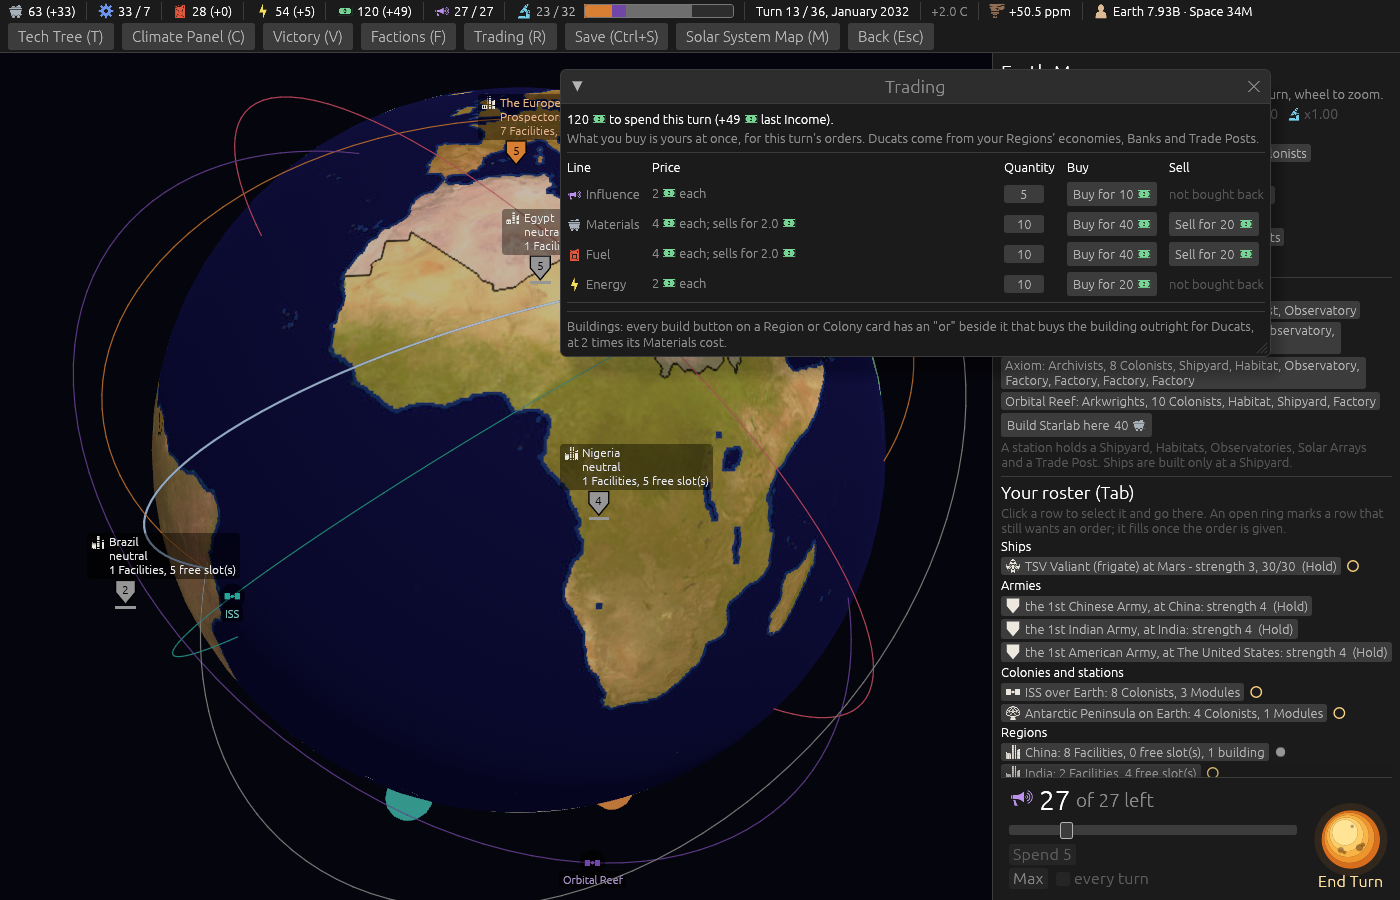
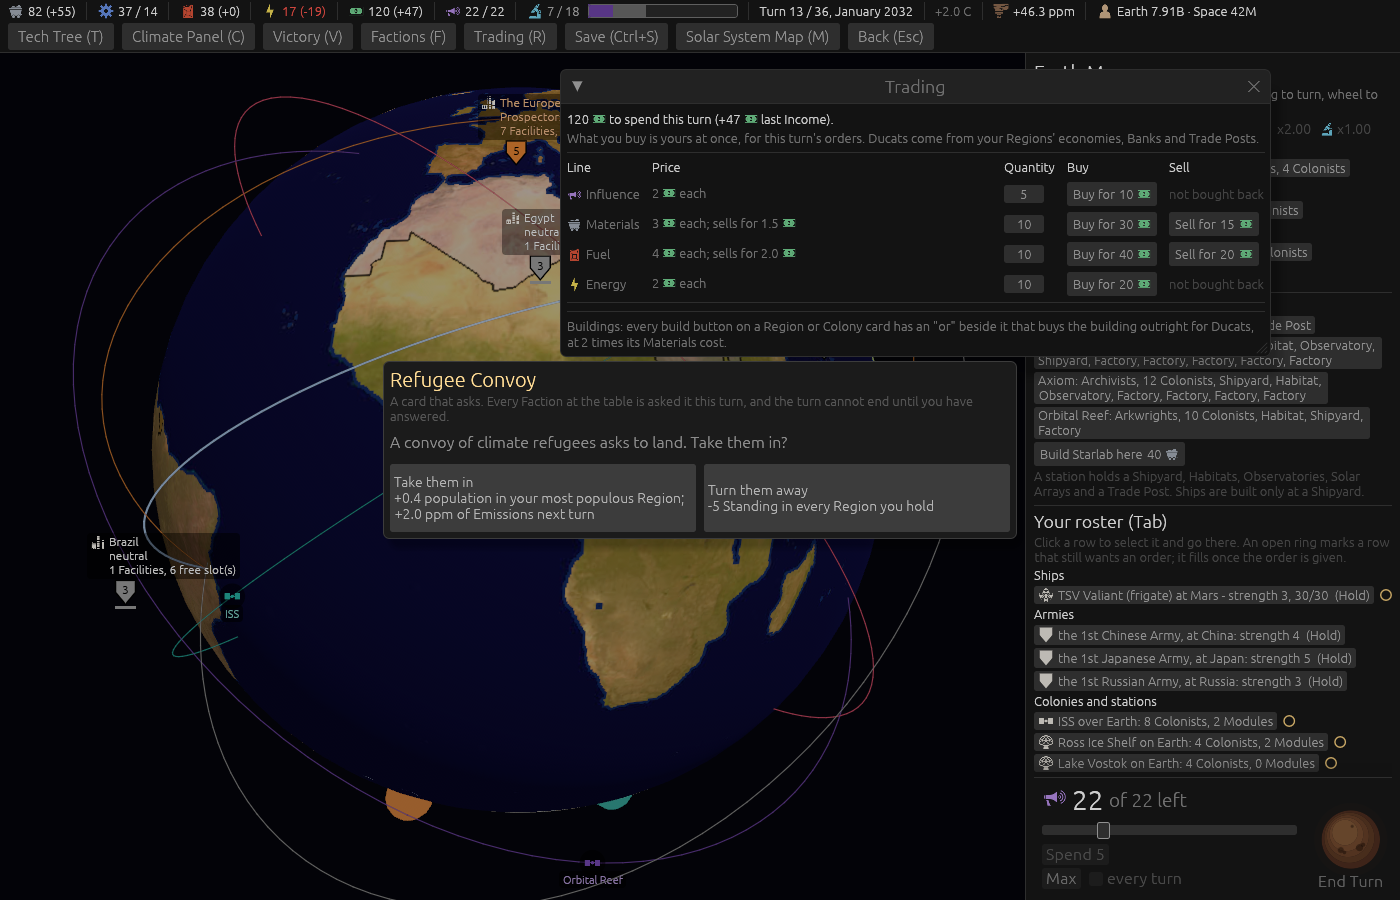
The review's fix-ups for the Trading glyphs
Ticket #369. The Spec axis found a reachable nought: at Materials 1 Ducat, one
unit, the Prospectors' 15% off comes to 0, and priced_button drops a nought, so
the face would have read a bare "Buy for". A small helper, ducat_button, writes
a nought out in words and folds the twin Buy and Sell hunks. The Standards axis:
the strong colour is `head`, since `ink` is the file's name for the plain one;
the price cell's floor is TRADE_PRICE_W beside the other named widths. Both
pictures re-taken with the final code.

diff --git a/src/ui.rs b/src/ui.rs
@@ -788,6 +788,12 @@ fn kind_glyph(ui: &mut Ui, kind: Kind, size: f32) {
 /// a little short of the truth costs the words a word.
 const YIELD_ROW_W: f32 = 220.0;
 
+/// Ticket #369 (version 0.09.2): the floor under the Trading window's price cell, so its glyph line
+/// has a width to wrap at (a Grid cell has none until its content has one, and without this the
+/// line wrapped one word to a line). Sized to the longest line the cell ever holds, the Prospectors'
+/// "1 [ducats] each; sells for 0.5 [ducats] (x0.85 for you, over the lot)", read off the picture.
+const TRADE_PRICE_W: f32 = 340.0;
+
 fn found_button(ui: &mut Ui, yields: &dying_earth_engine::SlotYields, label: &str) -> egui::Response {
     ui.scope_builder(egui::UiBuilder::new().sense(egui::Sense::click()), |ui| {
         let resp = ui.response();
@@ -7644,6 +7650,25 @@ fn stack_panel(ui: &mut Ui, session: &Session, game: &Game, view: &mut ViewState
 /// Ticket #42: the trading window. Ducats buy Influence, Materials, Fuel and Energy at the table
 /// prices, spendable in this turn's orders; Materials and Fuel sell back at half; buildings are
 /// bought for Ducats from their own build buttons.
+/// Ticket #369 (version 0.09.2): a Trading window button whose face is a verb and a Ducat figure
+/// with its glyph -- "Buy for 48 [ducats]" -- greyed with the engine's refusal on hover when the
+/// order is refused. Through `priced_button`, which is how a glyph reaches a button face; but that
+/// helper drops a nought from a price, and a nought is reachable here (Materials at 1 Ducat, one
+/// unit, the Prospectors' 15% off), so a nought is written out in words rather than leaving the
+/// face reading a bare "Buy for".
+fn ducat_button(ui: &mut Ui, game: &Game, session: &Session, verb: &str, ducats: i64, order: &Order) -> egui::Response {
+    let ok = game.check_order(Seat(0), &session.pending, order);
+    let mut resp = if ducats > 0 {
+        priced_button(ui, ok.is_ok(), verb, &dying_earth_engine::Cost { ducats, ..Default::default() }, 0)
+    } else {
+        ui.add_enabled(ok.is_ok(), egui::Button::new(format!("{verb} 0 Ducats")))
+    };
+    if let Err(e) = &ok {
+        resp = resp.on_disabled_hover_text(&e.0);
+    }
+    resp
+}
+
 fn trading_window(ui: &mut Ui, session: &Session, game: &Game, view: &mut ViewState, actions: &mut Vec<Action>) {
     let (left, _) = game.remaining(Seat(0), &session.pending);
     // Ticket #369 (version 0.09.2): **glyphs in the Trading window**, at the designer's word. The
@@ -7653,9 +7678,9 @@ fn trading_window(ui: &mut Ui, session: &Session, game: &Game, view: &mut ViewSt
     // sell price, and both button faces -- by the one number-then-word rule of `draw_with_icons`.
     // The Buy and Sell buttons go through `priced_button`, which is how a glyph gets onto a button
     // face at all; the Cost it is handed is Ducats alone, so the face reads "Buy for 48 [ducats]".
-    let ink = ui.visuals().strong_text_color();
+    let head = ui.visuals().strong_text_color();
     let body = ui.visuals().text_color();
-    text_with_icons(ui, &format!("{} Ducats to spend this turn (+{} Ducats last Income).", left.ducats, game.seat(Seat(0)).income_last_turn.ducats), 14.0, ink);
+    text_with_icons(ui, &format!("{} Ducats to spend this turn (+{} Ducats last Income).", left.ducats, game.seat(Seat(0)).income_last_turn.ducats), 14.0, head);
     ui.label("What you buy is yours at once, for this turn's orders. Ducats come from your Regions' economies, Banks and Trade Posts.");
     ui.separator();
     let lines: [(usize, Option<dying_earth_engine::Resource>, &str, &str); 4] = [(0, None, "influence", "Influence"), (1, Some(dying_earth_engine::Resource::Materials), "materials", "Materials"), (2, Some(dying_earth_engine::Resource::Fuel), "fuel", "Fuel"), (3, Some(dying_earth_engine::Resource::Energy), "energy", "Energy")];
@@ -7680,9 +7705,9 @@ fn trading_window(ui: &mut Ui, session: &Session, game: &Game, view: &mut ViewSt
             let price = if sells { format!("{per} Ducats each; sells for {:.1} Ducats{discount}", per as f64 / game.tables.ducats.sell_divisor.max(1) as f64) } else { format!("{per} Ducats each{discount}") };
             // The glyph line wraps at the width it is given, and a Grid cell has none until its
             // content has one, so left alone it wrapped one word to a line (the first picture of
-            // ticket #369). The Prospectors' discount clause is the longest the cell ever holds.
+            // ticket #369).
             ui.scope(|ui| {
-                ui.set_min_width(340.0);
+                ui.set_min_width(TRADE_PRICE_W);
                 text_with_icons(ui, &price, 14.0, body);
             });
             ui.add(egui::DragValue::new(&mut view.trade_amounts[i]).range(1..=999).speed(1.0));
@@ -7692,23 +7717,13 @@ fn trading_window(ui: &mut Ui, session: &Session, game: &Game, view: &mut ViewSt
                 Some(r) => Order::Buy { resource: r, amount: n },
             };
             let cost = game.order_cost(Seat(0), &buy).ducats;
-            let ok = game.check_order(Seat(0), &session.pending, &buy);
-            let mut resp = priced_button(ui, ok.is_ok(), "Buy for", &dying_earth_engine::Cost { ducats: cost, ..Default::default() }, 0);
-            if let Err(e) = &ok {
-                resp = resp.on_disabled_hover_text(&e.0);
-            }
-            if resp.clicked() {
+            if ducat_button(ui, game, session, "Buy for", cost, &buy).clicked() {
                 actions.push(Action::Place(buy));
             }
             if let Some(r) = res.filter(|_| sells) {
                 let sell = Order::Sell { resource: r, amount: n };
                 let gain = -game.order_cost(Seat(0), &sell).ducats;
-                let ok = game.check_order(Seat(0), &session.pending, &sell);
-                let mut resp = priced_button(ui, ok.is_ok(), "Sell for", &dying_earth_engine::Cost { ducats: gain, ..Default::default() }, 0);
-                if let Err(e) = &ok {
-                    resp = resp.on_disabled_hover_text(&e.0);
-                }
-                if resp.clicked() {
+                if ducat_button(ui, game, session, "Sell for", gain, &sell).clicked() {
                     actions.push(Action::Place(sell));
                 }
             } else {

diff --git a/docs/dev-diary/2026-09-25-version-0.09.2/ticket-369-trading-glyphs/README.md b/docs/dev-diary/2026-09-25-version-0.09.2/ticket-369-trading-glyphs/README.md
@@ -22,22 +22,39 @@ Both taken headlessly, `window:1400x900`, the Trading window open over Earth.
 ![The Trading window as the Custodians: glyphs on the header, the row names, the prices and the button faces](trading-custodians-earth.png)
 
 `shot:trading-custodians turns:12 trade:1 panel:0 ducats:120`. **The Custodians, turn 13.** The
-header reads *"120 [ducats] to spend this turn (+49 [ducats] last Income)"*; each row opens with
-its good's glyph and name; the price reads *"4 [ducats] each; sells for 2.0 [ducats]"*; the buttons
-*"Buy for 40 [ducats]"* and *"Sell for 20 [ducats]"*. The Buildings sentence carries no glyph, since
-no figure in it is a quantity of a good, which is the rule working.
+header reads *"120 [ducats] to spend this turn (+47 [ducats] last Income)"*; each row opens with
+its good's glyph and name; the Materials price reads *"3 [ducats] each; sells for 1.5 [ducats]"*;
+the buttons *"Buy for 30 [ducats]"* and *"Sell for 15 [ducats]"*. The Buildings sentence carries no
+glyph, since no figure in it is a quantity of a good, which is the rule working. The Refugee Convoy
+under the window is a card the staged turn drew; it covers nothing.
 
 ![The Trading window as the Prospectors, with the discount clause on one line](trading-prospectors-earth.png)
 
 `shot:trading-prospectors player:prospectors turns:11 trade:1 panel:0 ducats:120`. **The
-Prospectors, turn 12.** The same window with the 15% off: *"1 [ducats] each; sells for 0.5 [ducats]
-(x0.85 for you, over the lot)"*, the longest line the price cell ever holds, on one line.
+Prospectors, turn 12.** The same window with the 15% off: *"3 [ducats] each; sells for 1.5 [ducats]
+(x0.85 for you, over the lot)"*, the longest shape the price cell ever holds, on one line; *"Buy for
+25 [ducats]"* where the Custodians pay 30.
 
 **The first cut of both pictures was wrong and is not kept.** The price cell wrapped one word to a
 line (*"3 [ducats] / each; / sells / for 1.5 / [ducats]"*, and the discount clause eleven lines
 tall), because the glyph line wraps at the width it is given and a Grid cell has none until its
 content has one. The cell is given a floor of 340 px, sized to the discount clause. The first
 Prospectors picture was also under a card the staged turn drew, so it is taken a turn earlier.
+
+## The review
+
+Two axes, run as sub-agents over the commit.
+
+**Standards**: no violation. Two judgement calls taken: the strong text colour was bound to `ink`,
+which is the file's name for the plain one, so it is `head` now; the price cell's floor is a named
+constant, `TRADE_PRICE_W`, beside the file's other widths. The Buy and Sell hunks were near-twins
+and are one helper now, `ducat_button`, for the reason below.
+
+**Spec**: nothing missing against the decision, nothing stale elsewhere. **One edge found and
+fixed**: `priced_button` drops a nought from a price, and a nought is reachable in this window
+(Materials at 1 Ducat, one unit, the Prospectors' 15% off comes to 0), so the face would have read a
+bare *"Buy for"* where it read *"Buy for 0 Ducats"* before. `ducat_button` writes a nought out in
+words. The pictures above were re-taken with the final code.
 
 ## The gate
 
